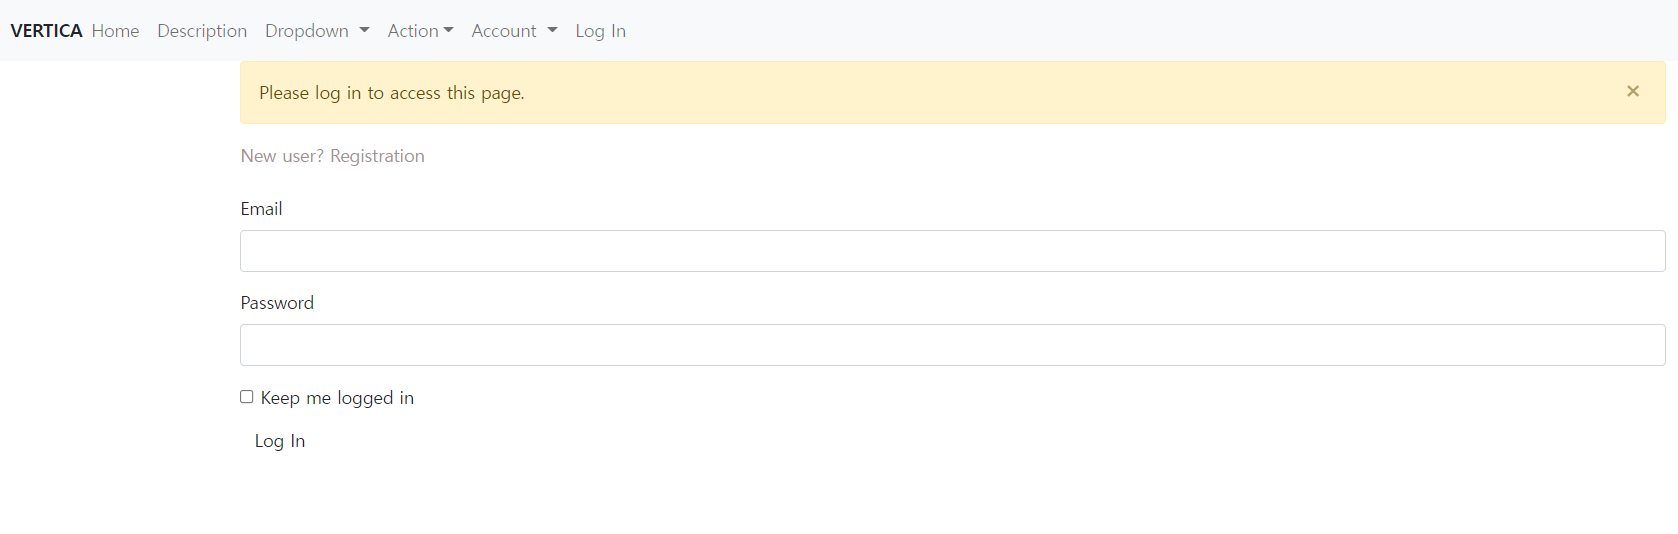
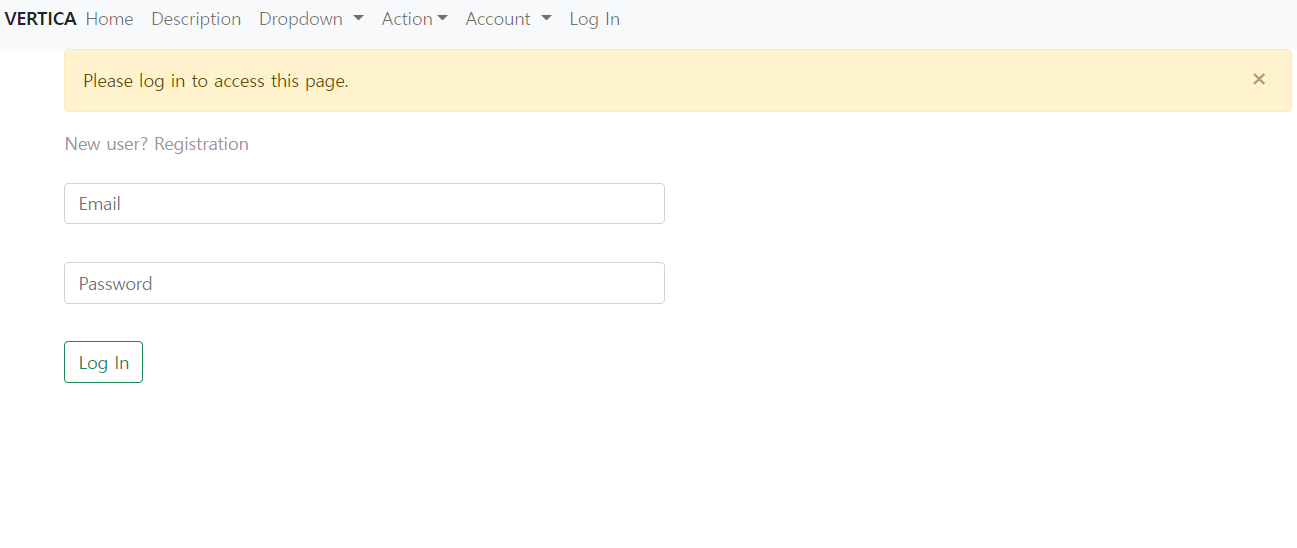
READ_ME edited.

diff --git a/app/templates/auth/register.html b/app/templates/auth/register.html
@@ -5,8 +5,45 @@
 <div class="page-header">
     <h3 style="color: rgb(162, 146, 146);">Vertica Project Registration Form</h3>
 </div>
-<div class="col-md-6">
-{{ wtf.quick_form(form) }}
+<br>
+<div class="container">
+<form class="form" method="POST">
+    {{ form.hidden_tag() }} 
+    <div class="row">
+        <div class="col-lg-6">
+            {{ form.email(class="form-control mr-sm-6",placeholder="Email") }} 
+        </div>
+    <br><br><br>
+    </div>
+    <div class="row">
+        <div class="col-lg-6">
+            {{ form.username(class="form-control mr-sm-6", placeholder="Username") }}
+        </div>
+    <br><br><br>
+    </div>
+    <div class="row">
+        <div class="col-lg-6">
+            {{ form.password(class="form-control mr-sm-6", placeholder="Password") }}
+        </div>
+    <br><br><br>
+    </div>
+    <div class="row">
+        <div class="col-lg-6">
+            {{ form.password2(class="form-control mr-sm-6", placeholder="Confirm Password") }}
+        </div>
+    <br><br><br>
+    </div>
+    <div class="row">
+        <div class="col-lg-6">
+            {{ form.submit(class="btn btn-outline-success my-2 my-sm-0") }}
+        </div>
+    <br><br><br>
+    </div>
+</form>
 </div>
+<!-- <div class="col-md-6">
+{{ wtf.quick_form(form) }}
+</div> -->
 {% endblock %}
+
 

diff --git a/app/templates/auth/login.html b/app/templates/auth/login.html
@@ -4,6 +4,27 @@
 {% block page_content %}
 <a href="{{ url_for('auth.register')}}" style="color: rgb(162, 146, 146);text-decoration: none;" >New user? Registration</a>
 <br><br>
-{{ wtf.quick_form(form) }}
+<!-- {{ wtf.quick_form(form) }} -->
+<form class="form" method="POST">
+{{ form.hidden_tag() }} 
+<div class="row">
+    <div class="col-lg-6">
+        {{ form.email(class="form-control mr-sm-6",placeholder="Email") }} 
+    </div>
+<br><br><br>
+</div>
+<div class="row">
+    <div class="col-lg-6">
+        {{ form.password(class="form-control mr-sm-6", placeholder="Password") }}
+    </div>
+<br><br><br>
+</div>
 
+<!-- <div class="row">
+{{ form.remember_me(type="checkbox" ,class="form-control mr-sm-2", placeholder="Keep me login") }}
+</div> -->
+
+{{ form.submit(class="btn btn-outline-success my-2 my-sm-0")}} 
+
+</form>
 {% endblock %}

diff --git a/app/core_features/ES.py b/app/core_features/ES.py
@@ -46,9 +46,7 @@ class Es(Interface):
                 try :
                     if es_con.cluster.health()['status'] =="green":
                         print("Cluster health green! Continue rolling restart...")
-                        print("execute 1") #to be replaced with post request
                         token = Es.token_generator()
-                        print(token)
                         res=requests.post(node+"/es/command/restart",json={"token":token})
                         if res.status_code == 200:
                             print(f"[SUCCESS] Agent : {node} executed Restart...")
@@ -87,12 +85,9 @@ class Es(Interface):
         #First, check the version of cluster
         es_con = self.connector()
         try : 
-            print("got in1")
             version :str = es_con.info().get("version").get("number") 
-            print("got in2", version)
             dirname = os.path.dirname(__file__)
             filename = os.path.join(dirname, f'../solutions/elasticsearch/elasticsearch{version[0]}.yml')
-            print("got in2", filename)
             with open(filename,encoding='UTF8') as f:
                 data = Es.flatten_dict(yaml.load(f,Loader=yaml.FullLoader))
                 return data

diff --git a/README.md b/README.md
@@ -58,78 +58,55 @@ This time, you chose "Configuration" from Execution select field and press "Go" 
 
 As you can see, you can freely change the configuration for Elasticsearch and it will save it on the agent node(where you have Elasticsearch up and running).<br><br>
 
-The following is how it was stored on agent node.
+The following is how it was stored on agent node.<br>
 <img src="./guideline_pics/modiResult.png"><br><br>
 
+#### 2. Operation history
+You may want to also keep track of what operations you and other users have executed. For that, I created table: <br>
+
+<img src="./guideline_pics/op_history1.png"><br><br>
+
+Asynchronously, you can search for:
+- who made it.
+- what was executed.
+
+<img src="./guideline_pics/op_history2.png"><br>
+There may be id "mago" but there is no history of them executing any of the operation.<br><br>
+
+<img src="./guideline_pics/op_history3.png"><br>
+You collect operation history of only "ClusterHealthCheck". Notice that even before you finish off the typing, it shows you. In fact, I didn't even press ENTER key. 
+
+#### 3. Security
+##### Master-side
+- (User registration) Using one-way cryptographic transformation(itsdangerous), user password can't be read unless you know authentic password. 
+
+- (Session management) a session can last only for 30 minutes.
+
+- (User account confirmation) The account must be confirmed by proper email. To send user back to proper url link, **JWT** was used. 
+
+- (Access Control List) If the user is not granted some privilges, there is very little they can do in a certain page. Here, they can't execute any of operations. 
+
+- (Protection against CSRF - cross-site request forgery) using security token and applying them to all web form, it projects all the user form from CSRF
+
+- (Request tokenization) When sending a request to agent, they also send a token which authenticate the master.
+
+##### Agent-side
+- (From Master Only) It can get traffic only from master
+
+- (No use of subprocess) Subprocess is intrinsically insecure. With that said, service management require system management. To reconcile two requirements, I used pystemd to leverage service Unit
+
+- (Verifying token from master) When receiving a request and token, it not only checks master ip but also token it gets. 
 
 
-
-#### Login page
+#### 4. Login page
 Login_required function is implemented so when any of the endpoints require user being logged in, it redirected to login page and once you login in, you'll be pushed back to the page you originally wanted to go on. 
 <img src="./guideline_pics/first_page.png">
 
+#### 5. Registration page
+You can limit the hostname by configuring "DOMAIN" environment variable. In this project, it's "wemakeprice.com". So any registration request with different domain will be rejected<br>
+<img src="./guideline_pics/registration_page1.png"><br><br>
+<img src="./guideline_pics/registration_page2.png"><br><br>
 
-### Configuration & Environment variable
-You should put any credentials and sensitive infomration into environment variable.<br>
-In this project, I used ".flaskenv" for it.<br><br>
-
-Information that should be kept under wrap is:
-- "AUTH_" for authentication of ES cluster id and password
-- "SECRET_KEY" for flaskform and JWT
-- "AGENT_KEY" for master-agent confirmation
-- "ADMINS" to register admin mail
-- "DOMAIN" to block any other users who has no specified domain in their email from registration
-- "MAIL_SERVER" for SMTP
-- "SOLUTION" to specify managed solution and its constituent clusters and nodes
-
-<br><br>
-
-
-#### app.execs.py
-With builder pattern applied, this is where you define available execution for each solution. Take ElasticSearch for example:
-```python
-class ElasticDirector:
-    "Elastic Director that can build a complex representation."
-    @staticmethod
-    def construct():
-        """Constrcut and return the final product."""
-        return ExecutableBuilder()\
-            .set_solution_type("ElasticSearch")\
-            .set_executable("RollingRestart")\
-            .set_executable("FileTransfer")\
-            .set_executable("ClusterHealthCheck")\
-            .get_result()
-```
-If you want to add more functionality, you can simply modify the return part by setting **".set_executable("command you want")"**
-<br>
-
-And then, you can have the feature registered to ***Execution*** model: 
-```python
-class Execution(db.Model):
-    ...
-    ...
-
-    @staticmethod
-    def insert_execution():
-        REDIS= RedisDirector.construct() #dict - solution, execution
-        ELASTIC = ElasticDirector.construct() #dict 
-        SOLUTIONS=[REDIS,ELASTIC]
-        for sol in SOLUTIONS:
-            for exe in sol["execution"]:
-                execution = Execution.query.filter_by(name=exe,solution=sol["solution"]).first()
-                if execution is None:
-                    execution = Execution(name=exe,solution=sol["solution"])
-                db.session.add(execution)
-            db.session.commit()
-```
-<br>
-
-As you can imagine, you can simply get into flask shell and execute the following:
-*flask shell*:
-```python
-a= Execution()
-a.insert_execution()
-```
-
+If you put the correct domain name, they will send a confirmation mail to the given email. <br>
 
 

diff --git a/management_guide.md b/management_guide.md
@@ -1,0 +1,64 @@
+### Configuration & Environment variable
+You should put any credentials and sensitive infomration into environment variable.<br>
+In this project, I used ".flaskenv" for it.<br><br>
+
+Information that should be kept under wrap is:
+- "AUTH_" for authentication of ES cluster id and password
+- "SECRET_KEY" for flaskform and JWT
+- "AGENT_KEY" for master-agent confirmation
+- "ADMINS" to register admin mail
+- "DOMAIN" to block any other users who has no specified domain in their email from registration
+- "MAIL_SERVER" for SMTP
+- "SOLUTION" to specify managed solution and its constituent clusters and nodes
+
+<br><br>
+
+
+#### app.execs.py
+With builder pattern applied, this is where you define available execution for each solution. Take ElasticSearch for example:
+```python
+class ElasticDirector:
+    "Elastic Director that can build a complex representation."
+    @staticmethod
+    def construct():
+        """Constrcut and return the final product."""
+        return ExecutableBuilder()\
+            .set_solution_type("ElasticSearch")\
+            .set_executable("RollingRestart")\
+            .set_executable("FileTransfer")\
+            .set_executable("ClusterHealthCheck")\
+            .get_result()
+```
+If you want to add more functionality, you can simply modify the return part by setting **".set_executable("command you want")"**
+<br>
+
+And then, you can have the feature registered to ***Execution*** model: 
+```python
+class Execution(db.Model):
+    ...
+    ...
+
+    @staticmethod
+    def insert_execution():
+        REDIS= RedisDirector.construct() #dict - solution, execution
+        ELASTIC = ElasticDirector.construct() #dict 
+        SOLUTIONS=[REDIS,ELASTIC]
+        for sol in SOLUTIONS:
+            for exe in sol["execution"]:
+                execution = Execution.query.filter_by(name=exe,solution=sol["solution"]).first()
+                if execution is None:
+                    execution = Execution(name=exe,solution=sol["solution"])
+                db.session.add(execution)
+            db.session.commit()
+```
+<br>
+
+As you can imagine, you can simply get into flask shell and execute the following:
+*flask shell*:
+```python
+a= Execution()
+a.insert_execution()
+```
+
+
+
